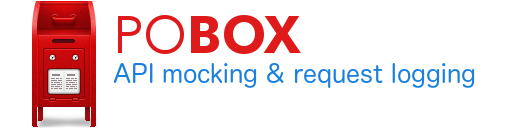
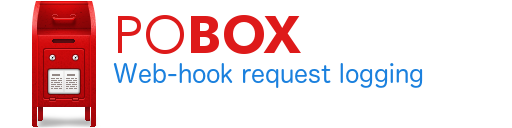
Support predefined routes (#7)
* enable defined routes

* update logo image

* added non-release version to argparser

* remove config add route to readme

* swap bash input char

Changed region(s): [[0.2188, 0.4688, 0.9375, 0.6875]]

diff --git a/endpoints/endpoints.go b/endpoints/endpoints.go
@@ -2,15 +2,35 @@ package endpoints
 
 import (
 	"bytes"
+	"encoding/json"
 	"fmt"
 	"io"
 	"io/ioutil"
 	"net/http"
 	"net/url"
+	"regexp"
 	"time"
 
 	"github.com/nbari/violetear"
 )
+
+type DefinedRequest struct {
+	URI    string
+	Method string
+}
+
+type DefinedResponse struct {
+	Body   json.RawMessage
+	Status int
+}
+
+type DefinedRoute struct {
+	Request  DefinedRequest
+	Response DefinedResponse
+}
+
+// MappedRoutes -> map[URI Pattern]map[Method Pattern]DefinedResponse
+type MappedRoutes map[*regexp.Regexp]map[*regexp.Regexp]DefinedResponse
 
 func copyRequest(original *http.Request) (http.Request, error) {
 	copy := *original
@@ -44,7 +64,7 @@ func copyRequest(original *http.Request) (http.Request, error) {
 	return copy, nil
 }
 
-func createCatchAllRoute(receivedRequests chan http.Request) func(http.ResponseWriter, *http.Request) {
+func createCatchAllRoute(routes MappedRoutes, receivedRequests chan http.Request) func(http.ResponseWriter, *http.Request) {
 	return func(w http.ResponseWriter, r *http.Request) {
 		copiedReq, err := copyRequest(r)
 		if err != nil {
@@ -52,18 +72,60 @@ func createCatchAllRoute(receivedRequests chan http.Request) func(http.ResponseW
 		}
 
 		receivedRequests <- copiedReq
+
+		for uriPattern, methodMapping := range routes {
+			if uriPattern.MatchString(r.URL.RequestURI()) {
+				for methodPattern, definedResponse := range methodMapping {
+					if methodPattern.MatchString(r.Method) {
+						if definedResponse.Status == 0 {
+							definedResponse.Status = 200
+						}
+						w.WriteHeader(definedResponse.Status)
+						w.Write([]byte(definedResponse.Body))
+						return
+					}
+				}
+			}
+		}
+
 		w.Write([]byte(""))
 	}
 }
 
-func CreateServer(receivedRequests chan http.Request, port int) (*http.Server, func() error) {
+func mapDefinedRoutes(routes []DefinedRoute) MappedRoutes {
+	mapped := make(MappedRoutes)
+
+	for _, route := range routes {
+		if len(route.Request.URI) <= 0 {
+			panic("defined route missing a URI")
+		}
+
+		if len(route.Request.Method) <= 0 {
+			panic("defined route missing a Method")
+		}
+
+		uriRegex := regexp.MustCompile(route.Request.URI)
+		methodRegex := regexp.MustCompile(route.Request.Method)
+
+		if _, ok := mapped[uriRegex]; !ok {
+			mapped[uriRegex] = make(map[*regexp.Regexp]DefinedResponse)
+		}
+
+		mapped[uriRegex][methodRegex] = route.Response
+	}
+
+	return mapped
+}
+
+func CreateServer(routes []DefinedRoute, receivedRequests chan http.Request, port int) (*http.Server, func() error) {
 	listenAddr := fmt.Sprintf(":%d", port)
+	mapped := mapDefinedRoutes(routes)
 
 	router := violetear.New()
 	router.LogRequests = false
 	router.Verbose = false
 
-	router.HandleFunc("*", createCatchAllRoute(receivedRequests))
+	router.HandleFunc("*", createCatchAllRoute(mapped, receivedRequests))
 
 	srv := &http.Server{
 		Addr:           listenAddr,

diff --git a/main.go b/main.go
@@ -1,16 +1,31 @@
 package main
 
 import (
+	"encoding/json"
 	"fmt"
 	"io/ioutil"
 	"net/http"
+	"os"
+	"path/filepath"
 	"strings"
 	"time"
 
 	"github.com/labstack/gommon/color"
+	kingpin "gopkg.in/alecthomas/kingpin.v2"
+	yaml "gopkg.in/yaml.v2"
 
 	"github.com/clagraff/pobox/endpoints"
 )
+
+var (
+	app    = kingpin.New("pobox", "An app for logging requests from web-hooks")
+	routes = app.Arg("routes-files", "JSON/Yaml file path which defines custom routes").String()
+)
+
+func init() {
+	app.Version("0.0.0")
+	app.Parse(os.Args[1:])
+}
 
 func logRequests(receivedRequests chan http.Request) {
 	for {
@@ -66,9 +81,41 @@ func logRequests(receivedRequests chan http.Request) {
 	}
 }
 
+func parseRoutesFile() []endpoints.DefinedRoute {
+	definedRoutes := make([]endpoints.DefinedRoute, 0)
+
+	if routes != nil && len(*routes) > 0 {
+		routePath := *routes
+		ext := filepath.Ext(routePath)
+
+		buf, err := ioutil.ReadFile(routePath)
+		if err != nil {
+			panic(err)
+		}
+
+		if ext == ".yaml" || ext == ".yml" {
+			err := yaml.Unmarshal(buf, &definedRoutes)
+			if err != nil {
+				panic(err)
+			}
+		} else if ext == ".json" {
+			err := json.Unmarshal(buf, &definedRoutes)
+			if err != nil {
+				panic(err)
+			}
+		} else {
+			panic(fmt.Errorf("unsupported route file extension: %s", ext))
+		}
+	}
+
+	return definedRoutes
+}
+
 func main() {
 	rr := make(chan http.Request)
-	_, start := endpoints.CreateServer(rr, 8080)
+
+	routes := parseRoutesFile()
+	_, start := endpoints.CreateServer(routes, rr, 8080)
 	go func() { start() }()
 
 	logRequests(rr)

diff --git a/README.md b/README.md
@@ -16,29 +16,51 @@ POBox is a Golang application. As such, you will need to Go installed in order
 to run the application. 
 
 ```bash
-go install github.com/clagraff/pobox
-pobox
+$ go install github.com/clagraff/pobox
+$ pobox
 ```
 
 After that, use cURL to see it in action:
 ```bash
-curl localhost:8080
-curl -X POST -d 'this is data!' localhost:8080/whatever/route/i/want
-curl -X OPTIONS localhost:8080/fiiz/buzz?anything=here
+$ curl localhost:8080
+$ curl -X POST -d 'this is data!' localhost:8080/whatever/route/i/want
+$ curl -X OPTIONS localhost:8080/fiiz/buzz?anything=here
 ```
 
-## Configuration
-You can supply either a `JSON` or `Yaml` using the `-cfg=<PATH>` flag when
-running `pobox`.
+## Routes
+Using the `pobox <route-file>` argument, you can specify a `.json` or `.yaml`
+file which supplies pre-defined routes.
 
-Here is an example configuration file:
+These routes specify a regex pattern for which URIs and methods to react to,
+and supply response information.
+
+This is useful in the event a web-hook requires a specific response back.
+
+Here is an example `.yaml` route file:
 ```yaml
-# config.yaml
-port: 8080      # Specify what port the server should run against
-verbose: true   # Enable or disable verbose log output
+# routes.yaml
+-
+    request:
+        uri: /[fF]izz/buz{1,3}  # regex pattern for matching URIs
+        method: get|post        # regex pattern for matching request methods
+    response:
+        body: |                 # Multi-line string response
+            <html>
+                <body>
+                    <h1>My Response</h1>
+                    <p>this is my response</p>
+                </body>
+            </html>
 ```
 
-Then run by passing the file path as a flag:
 ```bash
-pobox -cfg=config.yaml
+$ pobox routes.yaml &
+$ curl http://localhost/hello/world
+$ curl http://localhost/Fizz/buzz
+<html>
+    <body>
+        <h1>My Response</h1>
+        <p>this is my response</p>
+    </body>
+</html>
 ```
